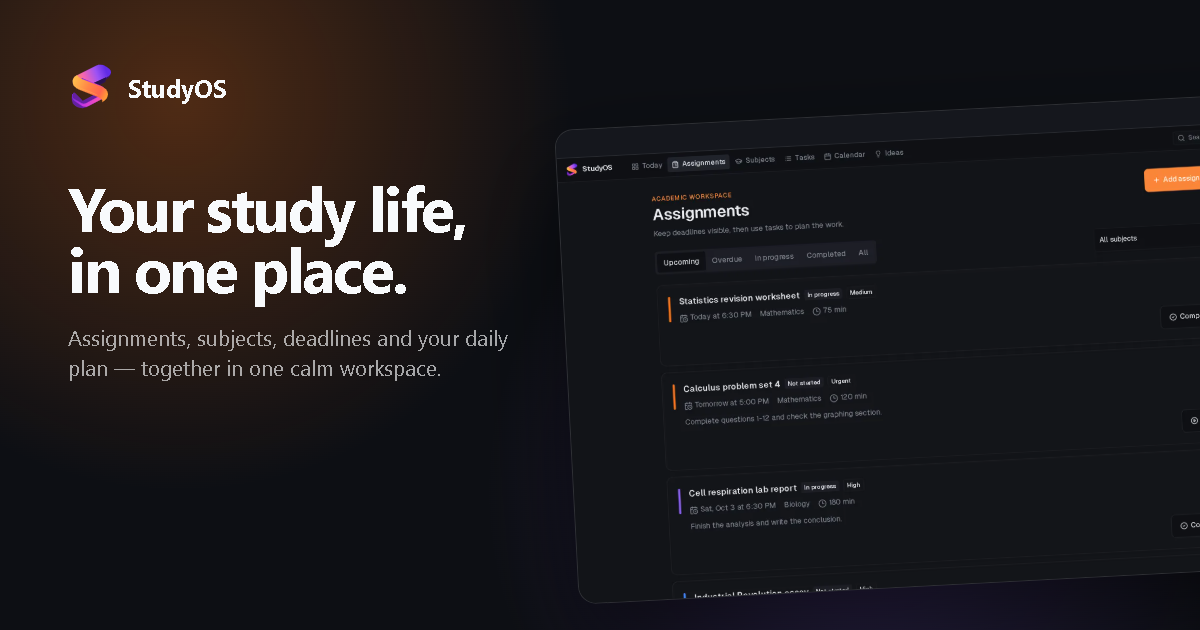
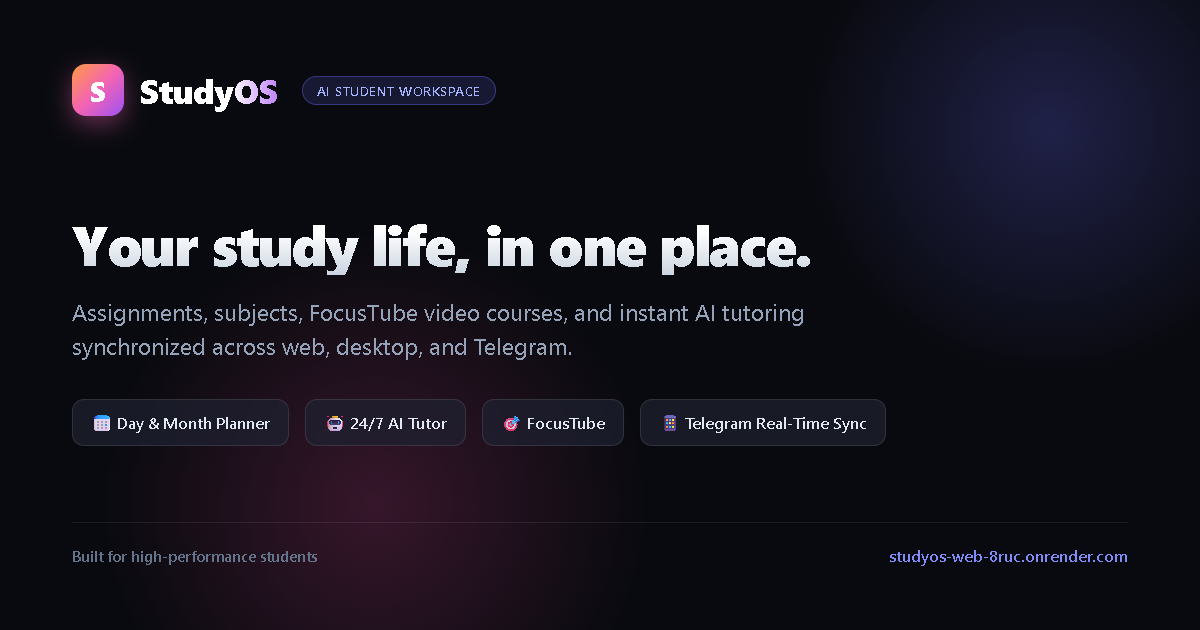
fix(branding): replace open-sunsama OG image and metadata with StudyOS branding and disable link previews in Telegram

diff --git a/apps/web/index.html b/apps/web/index.html
@@ -8,7 +8,7 @@
     <meta name="title" content="StudyOS - Your study life, in one place" />
     <meta name="description" content="Bring assignments, subjects, deadlines and your daily plan together in one calm student workspace." />
     <meta name="keywords" content="student planner, assignment tracker, subject organizer, study planning, deadline tracker, time blocking, student workspace" />
-    <meta name="author" content="Open Sunsama contributors" />
+    <meta name="author" content="StudyOS" />
     <meta name="robots" content="index, follow" />
     <meta name="googlebot" content="index, follow, max-video-preview:-1, max-image-preview:large, max-snippet:-1" />
     
@@ -19,14 +19,14 @@
     <meta name="color-scheme" content="light dark" />
     
     <!-- Canonical URL -->
-    <link rel="canonical" href="https://opensunsama.com/" />
+    <link rel="canonical" href="https://studyos-web-8ruc.onrender.com/" />
     
     <!-- Open Graph / Facebook -->
     <meta property="og:type" content="website" />
-    <meta property="og:url" content="https://opensunsama.com/" />
+    <meta property="og:url" content="https://studyos-web-8ruc.onrender.com/" />
     <meta property="og:title" content="StudyOS - Your study life, in one place" />
     <meta property="og:description" content="Assignments, subjects, deadlines and your daily plan — together in one calm workspace." />
-    <meta property="og:image" content="https://opensunsama.com/og-image.png" />
+    <meta property="og:image" content="https://studyos-web-8ruc.onrender.com/og-image.png" />
     <meta property="og:image:width" content="1200" />
     <meta property="og:image:height" content="630" />
     <meta property="og:image:alt" content="StudyOS - Student planning and study execution" />
@@ -35,10 +35,10 @@
     
     <!-- Twitter -->
     <meta name="twitter:card" content="summary_large_image" />
-    <meta name="twitter:url" content="https://opensunsama.com/" />
+    <meta name="twitter:url" content="https://studyos-web-8ruc.onrender.com/" />
     <meta name="twitter:title" content="StudyOS - Your study life, in one place" />
     <meta name="twitter:description" content="Assignments, subjects, deadlines and your daily plan — together in one calm workspace." />
-    <meta name="twitter:image" content="https://opensunsama.com/og-image.png" />
+    <meta name="twitter:image" content="https://studyos-web-8ruc.onrender.com/og-image.png" />
     <meta name="twitter:image:alt" content="StudyOS - Student planning and study execution" />
     
     <!-- Favicons -->
@@ -60,7 +60,7 @@
     <link rel="preconnect" href="https://cdn.jsdelivr.net" crossorigin />
     
     <!-- DNS Prefetch for API -->
-    <link rel="dns-prefetch" href="https://api.opensunsama.com" />
+    <link rel="dns-prefetch" href="https://studyos-api-wy5w.onrender.com" />
     
     <!-- DataFast Analytics. The queue stub buffers goals fired before the script loads. -->
     <script id="datafast-queue">
@@ -120,13 +120,13 @@
       "applicationCategory": "EducationalApplication",
       "operatingSystem": "Web",
       "description": "A student workspace for subjects, assignments, deadlines, daily planning and calendar time blocks.",
-      "url": "https://opensunsama.com",
-      "screenshot": "https://opensunsama.com/og-image.png",
+      "url": "https://studyos-web-8ruc.onrender.com",
+      "screenshot": "https://studyos-web-8ruc.onrender.com/og-image.png",
       "softwareVersion": "1.0.0",
       "author": {
         "@type": "Organization",
-        "name": "Open Sunsama contributors",
-        "url": "https://github.com/ShadowWalker2014/open-sunsama"
+        "name": "StudyOS",
+        "url": "https://studyos-web-8ruc.onrender.com"
       },
       "featureList": [
         "Subjects",
@@ -145,10 +145,10 @@
       "@context": "https://schema.org",
       "@type": "Organization",
       "name": "StudyOS",
-      "url": "https://opensunsama.com",
-      "logo": "https://opensunsama.com/studyos-symbol.svg",
+      "url": "https://studyos-web-8ruc.onrender.com",
+      "logo": "https://studyos-web-8ruc.onrender.com/studyos-symbol.svg",
       "sameAs": [
-        "https://github.com/ShadowWalker2014/open-sunsama"
+        "https://studyos-web-8ruc.onrender.com"
       ]
     }
     </script>
@@ -158,7 +158,7 @@
       "@context": "https://schema.org",
       "@type": "WebSite",
       "name": "StudyOS",
-      "url": "https://opensunsama.com"
+      "url": "https://studyos-web-8ruc.onrender.com"
       }
     </script>
     

diff --git a/apps/api/src/services/integrations/telegram.ts b/apps/api/src/services/integrations/telegram.ts
@@ -1648,6 +1648,8 @@ export class TelegramIntegrationService {
             chat_id: chatId,
             text: chunk,
             parse_mode: "Markdown",
+            disable_web_page_preview: true,
+            link_preview_options: { is_disabled: true },
           }),
         });
 
@@ -1664,6 +1666,8 @@ export class TelegramIntegrationService {
             body: JSON.stringify({
               chat_id: chatId,
               text: plainChunk,
+              disable_web_page_preview: true,
+              link_preview_options: { is_disabled: true },
             }),
           });
           sent = fallbackRes.ok;
